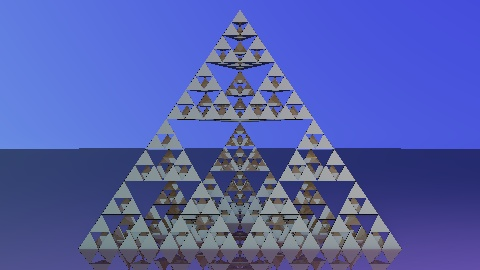
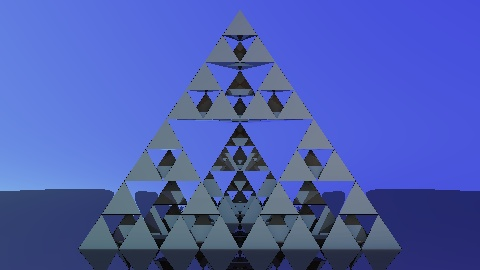
Are we done yet?

diff --git a/raymarch.py b/raymarch.py
@@ -15,6 +15,7 @@ def np_array_ol(x):
 			return np.copy(x)
 		return impl
 
+import distance_estimator as de
 from params import *
 from util import *
 
@@ -104,7 +105,7 @@ def getReflectColor(point, N, color, direction, DE, count):
 	return color
 
 ### main function
-def rayMarching(pixel, direction, DE=FRACTAL, reflect_count=7):
+def rayMarching(pixel, direction, DE=de.__dict__[FRACTAL], reflect_count=7):
 	steps, point, color, _ = march(pixel, direction, DE)
 
 	if steps >= (MAX_STEP - 1): return background_color(point)

diff --git a/params.py b/params.py
@@ -1,14 +1,13 @@
 import numpy as np
-import distance_estimator as de
 
-WIDTH = 3840
-HEIGHT = 2160
-RAYS_SCALE = 4 # anti-aliasing
+WIDTH = 480
+HEIGHT = 270
+RAYS_SCALE = 1 # anti-aliasing
 
-FRACTAL = de.tetrahedron_with_floor
-MAX_STEP = 1024
+FRACTAL = 'tetrahedron_with_floor'
+MAX_STEP = 256
 MIN_DIST = 1 / WIDTH
-ITER = 4
+ITER = 3
 
 CAM_POS = np.array([-10.0, 0.0, 2.0])
 CAM_ANG = np.array([0.0, 0.0, 0.0])
